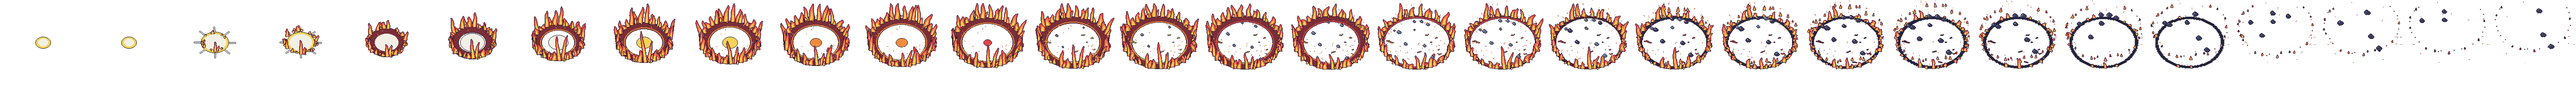
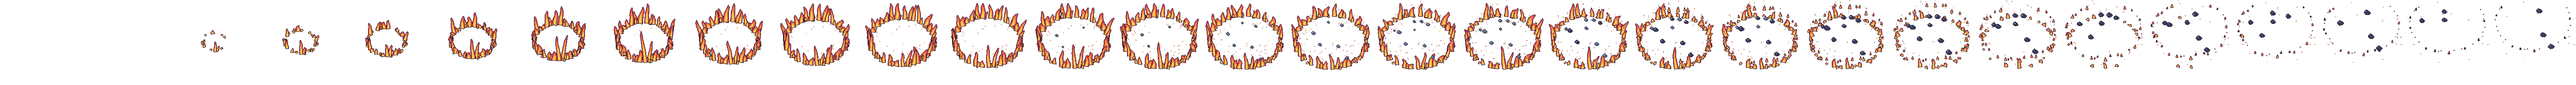
Flare Burst: draw the scorched floor under players
Split the ring's flat floor parts (flash, scorch band, glow, cracks) into a
flare_ring_floor strip played as an on_floor poof in sync with flare_ring.

Claude-Session: https://claude.ai/code/session_01J8LgTLVYzThXjNSRVhWqep

diff --git a/tools/sprites/generate.py b/tools/sprites/generate.py
@@ -3562,14 +3562,16 @@ def flare_tongues() -> list:
     return out
 
 
-def flare_ring_frame(k: int) -> Image.Image:
+def flare_ring_frame(k: int, floor_layer: bool = False) -> Image.Image:
     """Frame k of FLARE_FRAMES: a white flash, a wall of uneven flame tongues (tall and stubby, each catching, flickering
     and dying on its own beat, with a low bed of flame between and embers snapping off the tips) racing out along the
     floor over a scorched band while the flash cools in the middle; then the wall tears into free licks of flame that
     lift off, shrink and cool to embers, the scorch cracks glow and dither away, and smoke wisps and ash drift up and
-    out, a spray of sparks flying all the way through. Designed in 18 "old" frames (u) and sampled finer."""
+    out, a spray of sparks flying all the way through. `floor_layer` returns just the flat floor parts (flash, scorch band,
+    glow, cracks). Designed in 18 "old" frames (u) and sampled finer."""
     n = FLARE_W
     c = Canvas(n)
+    fl = Canvas(n)  # the flat floor parts, split out so they draw under the players
     ov = Canvas(n)
     m = n // 2
     rng = random.Random(41)
@@ -3582,7 +3584,7 @@ def flare_ring_frame(k: int) -> Image.Image:
     d_age = max(0.0, u - 9)
     if 2 <= u <= 14.99:  # a scorched band on the floor behind the front, thinning to dots as it cools
         band = 18 if u <= 9 else 7
-        d = ImageDraw.Draw(c.img)
+        d = ImageDraw.Draw(fl.img)
         for rr, col in ((r, MAROON if u < 11 else SHADOW), (r - band, None)):
             if rr > 2:
                 d.ellipse((m - rr, m - rr * sq, m + rr, m + rr * sq), fill=(col + (255,)) if col else (0, 0, 0, 0))
@@ -3590,17 +3592,17 @@ def flare_ring_frame(k: int) -> Image.Image:
             mod = 2 + int(u - 10) // 2
             for y in range(n):
                 for x in range(n):
-                    if c.px[x, y][3] and (x + y * 2) % mod != 0:
-                        c.px[x, y] = (0, 0, 0, 0)
+                    if fl.px[x, y][3] and (x + y * 2) % mod != 0:
+                        fl.px[x, y] = (0, 0, 0, 0)
         if u < 7:  # the flash cooling at the middle
             fr = (26, 21, 16, 12, 8)[ui - 2] if ui - 2 < 5 else 5
-            c.flat(E((m - fr, m - fr * sq, m + fr, m + fr * sq)), (WHITE, WHITE, YELLOW, ORANGE, RED)[min(4, ui - 2)])
+            fl.flat(E((m - fr, m - fr * sq, m + fr, m + fr * sq)), (WHITE, WHITE, YELLOW, ORANGE, RED)[min(4, ui - 2)])
         if 3 <= u < 10:  # the inner edge glows, a hot highlight lower down on the far side
             ri = r - band + 3
-            c.flat(lambda dd, f: dd.ellipse((m - ri, m - ri * sq, m + ri, m + ri * sq), outline=f, width=2),
+            fl.flat(lambda dd, f: dd.ellipse((m - ri, m - ri * sq, m + ri, m + ri * sq), outline=f, width=2),
                    ORANGE if u < 8 else RED)
             if u < 9:
-                c.flat(lambda dd, f: dd.arc((m - ri + 2, m - (ri - 2) * sq, m + ri - 2, m + (ri - 2) * sq), 20, 160, fill=f,
+                fl.flat(lambda dd, f: dd.arc((m - ri + 2, m - (ri - 2) * sq, m + ri - 2, m + (ri - 2) * sq), 20, 160, fill=f,
                                             width=1), YELLOW)
         if 7 <= u < 14:  # glowing cracks in the scorch, cooling
             col = (YELLOW, ORANGE, ORANGE, RED, RED, MAROON, MAROON)[ui - 7]
@@ -3609,16 +3611,16 @@ def flare_ring_frame(k: int) -> Image.Image:
                 a = cr.uniform(0, math.tau)
                 rad = cr.uniform(0.25, 0.95) * r
                 x0, y0 = m + math.cos(a) * rad, m + math.sin(a) * rad * sq
-                c.flat(L([(x0, y0), (x0 + cr.uniform(-5, 5), y0 + cr.uniform(-2, 2)),
+                fl.flat(L([(x0, y0), (x0 + cr.uniform(-5, 5), y0 + cr.uniform(-2, 2)),
                           (x0 + cr.uniform(-9, 9), y0 + cr.uniform(-3, 3))], 1), col)
     if u < 2:  # the flash: a white-hot disc with rays
         fr = (16, 30)[ui]
-        c.flat(E((m - fr, m - fr * sq, m + fr, m + fr * sq)), YELLOW)
-        c.flat(E((m - fr + 5, m - (fr - 5) * sq, m + fr - 5, m + (fr - 5) * sq)), WHITE)
+        fl.flat(E((m - fr, m - fr * sq, m + fr, m + fr * sq)), YELLOW)
+        fl.flat(E((m - fr + 5, m - (fr - 5) * sq, m + fr - 5, m + (fr - 5) * sq)), WHITE)
         if ui == 1:
             for a in range(0, 360, 45):
                 ca, sa = math.cos(math.radians(a)), math.sin(math.radians(a))
-                c.flat(L([(m + ca * (fr + 2), m + sa * (fr + 2) * sq), (m + ca * (fr + 16), m + sa * (fr + 16) * sq)], 2),
+                fl.flat(L([(m + ca * (fr + 2), m + sa * (fr + 2) * sq), (m + ca * (fr + 16), m + sa * (fr + 16) * sq)], 2),
                        WHITE)
     tongues = flare_tongues()
     for a, hv, wv, lean_j, appear, burn, rate, ph0, big in tongues:  # the wall, back to front
@@ -3690,6 +3692,8 @@ def flare_ring_frame(k: int) -> Image.Image:
         rb = ring_r(birth) * sr_.uniform(0.7, 1.05)
         ca, sa = math.cos(a), math.sin(a)
         ember_spark(ov, m + ca * rb, m + sa * rb * sq - 4, ca * sp, sa * sp * sq - sr_.uniform(0.6, 2.0), u - birth, lf, 0.07, 3)
+    if floor_layer:
+        return finish(fl, Canvas(n))
     return finish(c, ov)
 
 
@@ -3743,7 +3747,8 @@ FX = {
 ## (sky_pillar: frames are wider than tall, so it is checked whole; frames keep clear of their edges by construction.)
 FX_IMAGES = {"vine": vine, "vine_top": vine_top,
              "sky_pillar": lambda: strip([sky_pillar_frame(k) for k in range(PILLAR_FRAMES)]),
-             "flare_ring": lambda: strip([flare_ring_frame(k) for k in range(FLARE_FRAMES)])}
+             "flare_ring": lambda: strip([flare_ring_frame(k) for k in range(FLARE_FRAMES)]),
+             "flare_ring_floor": lambda: strip([flare_ring_frame(k, True) for k in range(FLARE_FRAMES)])}
 
 
 CHARACTERS = {"flicker": flicker, "warden": warden, "twinshot": twinshot, "wukong": wukong, "flint": flint,

diff --git a/CLAUDE.md b/CLAUDE.md
@@ -447,4 +447,5 @@ A mobile real-time PvP arena shooter. Combat feel is inspired by top-down roguel
   node at `Effects.GROUND_Z` (above the arena floor, under players) drawn by `_draw_floor`: the Storm Cloud's shadow + rain splashes
   (generate.py `storm_cloud_art(floor_layer=True)` -> `storm_floor` / `_form` / `_end` strips, same frames as the cloud strips, which now hold only
   cloud + falling rain), a strike's scorch (`storm_scorch`, `Poof.on_floor`), the Eruption telegraph crack and the Staff Whirl ring.
+  Flare Burst split the same way: `flare_ring_floor` (30 frames, flash, scorch band, inner glow, cracks; `flare_ring_frame(k, floor_layer=True)`) plays as an `on_floor` poof in sync with `flare_ring`, which keeps tongues, licks, smoke and sparks.
   Left above players on purpose: tall art (Sky Pillar, Blaze flames, Flare ring tongues, ward dome, sapling, snare vines, smoke).
